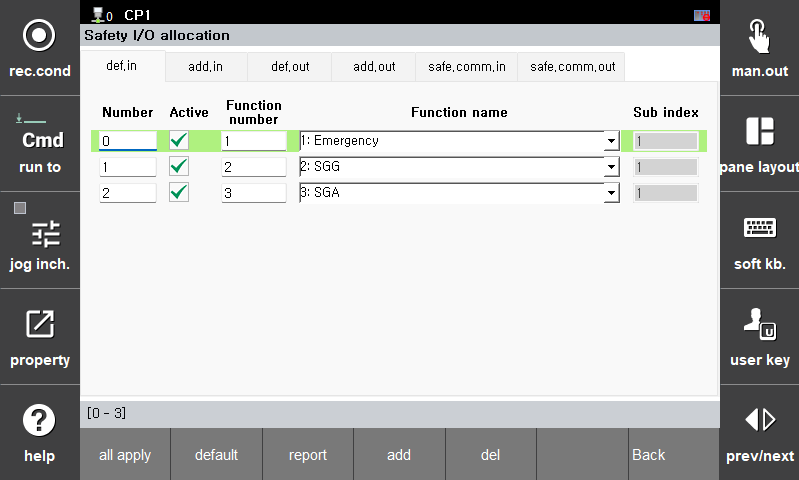
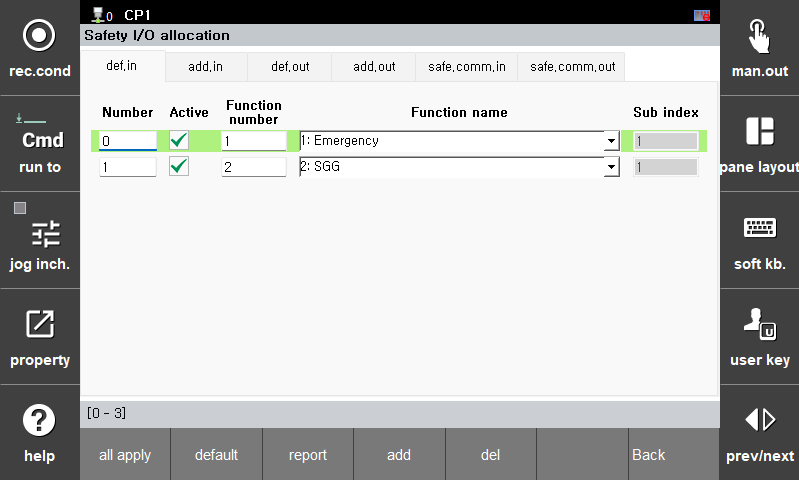
안전입출력 할당 기본값 변경

Changed region(s): [[0.3605, 0.375, 0.8711, 0.4375], [0.2103, 0.375, 0.2403, 0.4375]]

diff --git a/3-safety-function/3-safety-function/4-safety-io/3-Linker.md b/3-safety-function/3-safety-function/4-safety-io/3-Linker.md
@@ -1,6 +1,6 @@
-# 3.3.4.3 Safety Signal Assignment
+# 3.3.4.3 Safety Signal Allocation
 
-The Safety signal assignment function serves to connect external signals such as safety input/output, additional safety input/output, and safety communication input/output with various logical signals (system safety input/output, safety application signals) that the robot controller has.
+The Safety signal allocation function serves to connect external signals such as safety input/output, additional safety input/output, and safety communication input/output with various logical signals (system safety input/output, safety application signals) that the robot controller has.
 You can set the parameter values in the `[System > 10: Safety System > 2: Parameter setup > 3: Safety I/O > 1: I/O Allocation]` menu.
 
 ![](../../../_assets/safety_io/SIO_Alloc_diagram1.bmp)
@@ -9,24 +9,24 @@ You can set the parameter values in the `[System > 10: Safety System > 2: Parame
 
 -------------------------------------------------------------------------
 
-### 1) Adding Safety Signal Assignment
+### 1) Adding Safety Signal Allocation
 1) Press the `[Add]` button.
 2) Select the desired function from the function list.
 3) If a sub-index is required, enter the sub-index number.
 
-### 2) Deleting Safety Signal Assignment
-1) Select an already set assignment function on the list.
+### 2) Deleting Safety Signal Allocation
+1) Select an already set allocation function on the list.
 2) Press the `[del]` button.
 
 <p align="center">
 <img src="../../../_assets/safety_io/io_alloc_param1.png"></img>
-<em><p align="center">Safety Signal Assignment Settings Screen</p></em>
+<em><p align="center">Safety Signal allocation Settings Screen</p></em>
 </p>
 
 {% hint style="warning" %}
 * An individual input function item can only be connected to a single input channel.<br>
 * "Basic Safety Input", "Additional Safety Input", and "Safety Communication Input" cannot be assigned in duplication mutually.<br>
-* If duplicate input settings are made, the "E52030 (x ch) Safety input assignment duplication" error occurs.
+* If duplicate input settings are made, the "E52030 (x ch) Safety input allocation duplication" error occurs.
 
 {% endhint %}
 
@@ -38,7 +38,7 @@ You can set the parameter values in the `[System > 10: Safety System > 2: Parame
 | :-------: | :------------------------------------------------: |
 | Safety Input Channel 1 | External Emergency Stop Input (Emergency) |
 | Safety Input Channel 2 | Safety Guard General Input (SGG)|
-| Safety Input Channel 3 | Safety Guard Auto Input (SGA)|
+| Safety Input Channel 3 | - |
 | Safety Input Channel 4 | - |
 | Safety Output Channel 1 | Emergency Stop Activation Status|
 
